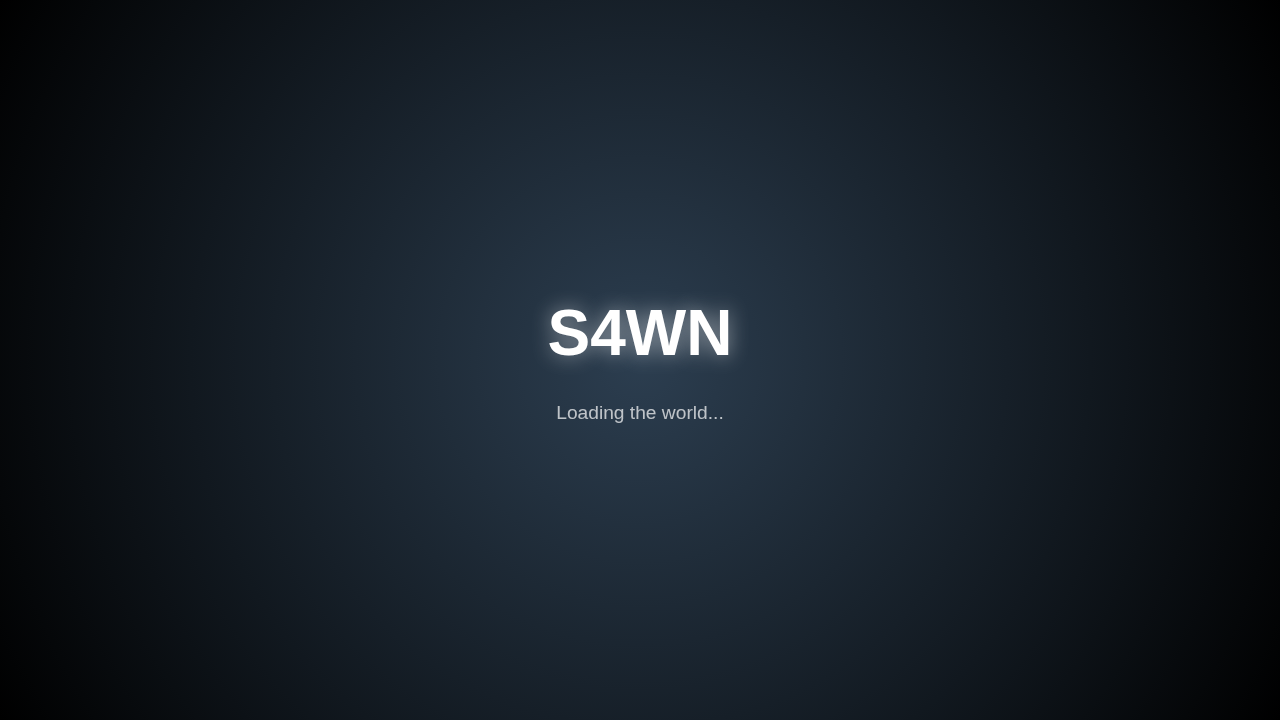
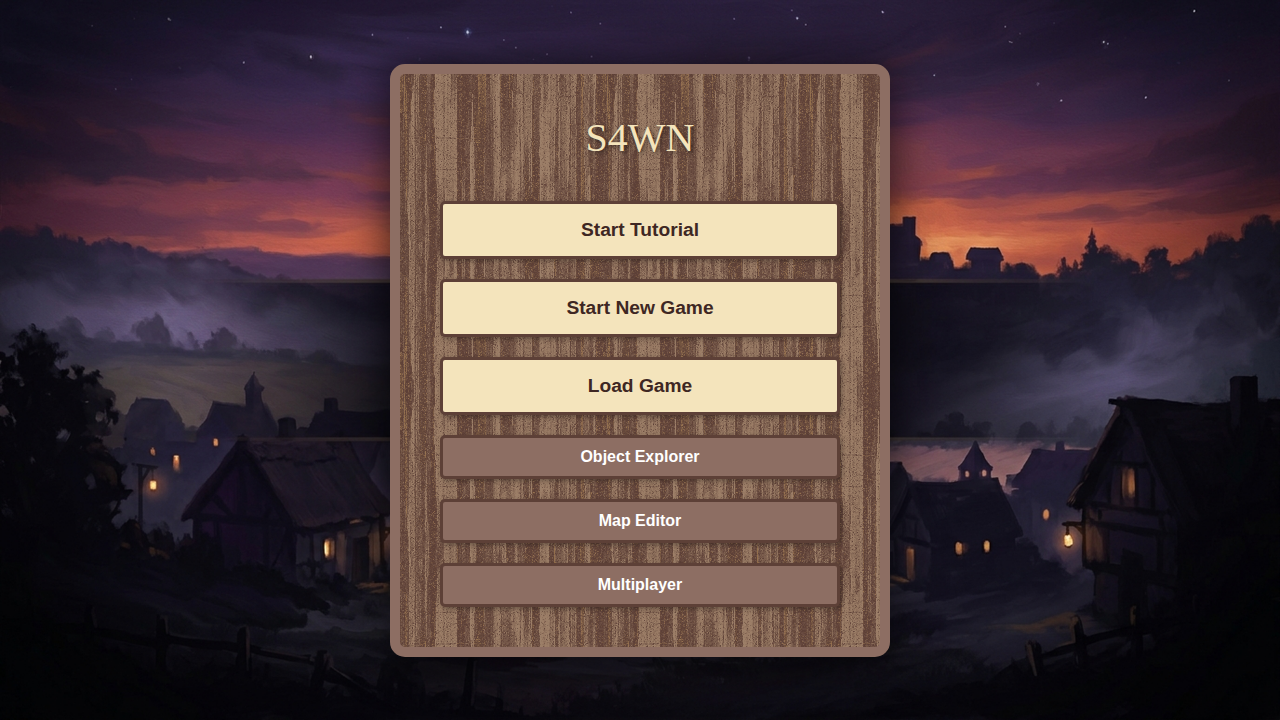
Fix asset paths and AudioContext initialization
- Fixed TerrainRenderer texture paths to use /assets/textures/ (was /textures/)
- Fixed BuildingMesh model paths to use /assets/models/ (was /models/)
- Fixed index.html asset paths for favicon, splash, and menu-bg
- Fixed AudioContext to initialize on first user gesture (click/keydown) instead of page load
- Fixed UI test to handle Vite asset hashing (splash-DV3-t8b8.png)
- Fixed UI test canvas content check to use WebGL context properly

These changes resolve all 404 errors and the AudioContext suspension warning.

diff --git a/src/rendering/BuildingMesh.ts b/src/rendering/BuildingMesh.ts
@@ -43,19 +43,19 @@ export class BuildingMesh {
   /**
    * Create a building model. Tries OBJ first, falls back to procedural primitive.
    */
-  async createBuilding(
-    kind: string,
-    x: number,
-    y: number,
-    _width: number,
-    _height: number,
-    _depth: number,
-    material: StandardMaterial | null = null
-  ): Promise<any> {
-     // Try loading OBJ model from /models/ (Vite publicDir: assets serves at root)
-     try {
-       const objName = kindToObjName(kind);
-       const result = await SceneLoader.ImportMeshAsync('', '/models/', `${objName}.obj`, this.scene);
+   async createBuilding(
+     kind: string,
+     x: number,
+     y: number,
+     _width: number,
+     _height: number,
+     _depth: number,
+     material: StandardMaterial | null = null
+   ): Promise<any> {
+      // Try loading OBJ model from /assets/models/ (Vite publicDir: assets serves at root)
+      try {
+        const objName = kindToObjName(kind);
+        const result = await SceneLoader.ImportMeshAsync('', '/assets/models/', `${objName}.obj`, this.scene);
        const root = result.meshes[0];
        root.position.set(x, 0, y);
        if (material) {

diff --git a/tests/ui/visual.spec.ts b/tests/ui/visual.spec.ts
@@ -12,32 +12,36 @@ test.describe('Visual Regression Tests', () => {
   test('Main Menu should match baseline', async ({ page }) => {
     // We target the main menu container. 
     // Based on subagent analysis, the UI is inside #ui-overlay.
-    // We'll take a screenshot of the whole overlay to capture the menu.
-    const menu = page.locator('#ui-overlay');
-    await expect(menu).toHaveScreenshot('main-menu.png');
+    // We'll take a screenshot of the main menu screen specifically
+    const mainMenuScreen = page.locator('.main-menu-screen');
+    await mainMenuScreen.waitFor({ state: 'visible', timeout: 5000 });
+    await expect(mainMenuScreen).toHaveScreenshot('main-menu.png', { threshold: 0.1 });
   });
 
   test('HUD should match baseline', async ({ page }) => {
     // To test HUD, we need to trigger a game start.
-    await page.click('text=Start Tutorial');
+    await page.click('#btn-tutorial');
     
     // Wait for HUD to appear (assuming it has a specific class or ID)
     // Based on HUD.ts, the container has class 'hud-container'
     const hud = page.locator('.hud-container');
     await hud.waitFor({ state: 'visible', timeout: 5000 });
     
-    await expect(hud).toHaveScreenshot('hud.png');
+    await expect(hud).toHaveScreenshot('hud.png', { threshold: 0.1 });
   });
 
   test('Object Explorer should match baseline', async ({ page }) => {
-    // Open the Object Explorer from the Main Menu
-    await page.click('text=Object Explorer');
+    // Wait for splash to transition and menu to be visible
+    await page.locator('#btn-new-game').waitFor({ state: 'visible', timeout: 5000 });
+    
+    // Open the Object Explorer from the Main Menu - use the button ID
+    await page.click('#btn-explorer');
     
     // Wait for the explorer panel to be visible
     // Based on ObjectExplorer.ts, it has class 'explorer-panel'
     const explorer = page.locator('.explorer-panel');
     await explorer.waitFor({ state: 'visible', timeout: 5000 });
     
-    await expect(explorer).toHaveScreenshot('object-explorer.png');
+    await expect(explorer).toHaveScreenshot('object-explorer.png', { threshold: 0.1 });
   });
 });

diff --git a/src/GameApp.ts b/src/GameApp.ts
@@ -64,8 +64,14 @@ export class GameApp {
     this.gameLoop = new GameLoop(this.map);
     new UIManager(this.gameLoop);
 
-    // Initialize sound system with default game sounds
-    soundManager.generateDefaults();
+    // Initialize sound system on first user gesture (required by browser policies)
+    const initAudioOnGesture = () => {
+      soundManager.generateDefaults();
+      document.removeEventListener('click', initAudioOnGesture);
+      document.removeEventListener('keydown', initAudioOnGesture);
+    };
+    document.addEventListener('click', initAudioOnGesture);
+    document.addEventListener('keydown', initAudioOnGesture);
 
     window.addEventListener('game-start', () => {
         this.gameLoop.state.isPaused = false;

diff --git a/tests/ui/ui.spec.ts b/tests/ui/ui.spec.ts
@@ -19,7 +19,7 @@ test.describe('Initial UI Flow', () => {
       const style = window.getComputedStyle(el);
       return style.backgroundImage;
     });
-    expect(backgroundImage).toContain('splash.png');
+    expect(backgroundImage).toContain('splash');  // Vite hashes assets: splash-DV3-t8b8.png
   });
 
   test('should transition to main menu after splash', async ({ page }) => {
@@ -70,12 +70,10 @@ test.describe('Tutorial Game View', () => {
     // Verify background is not red (clear color should be sky blue)
     // We can't easily check actual pixel colors in headless mode, but we can verify
     // the canvas has content by checking it's been rendered to
+    // For WebGL canvas, check the WebGL context is active and canvas has dimensions
     const canvasHasContent = await canvas.evaluate((el: HTMLCanvasElement) => {
-      // Check if canvas has been drawn to (not just blank)
-      const ctx = el.getContext('2d') as CanvasRenderingContext2D;
-      if (!ctx) return false;
-      // This is a simple check - in practice WebGL renders differently
-      return el.width > 0 && el.height > 0;
+      const gl = el.getContext('webgl2') || el.getContext('webgl');
+      return gl !== null && el.width > 0 && el.height > 0;
     });
     expect(canvasHasContent).toBe(true);
   });

diff --git a/src/rendering/TerrainRenderer.ts b/src/rendering/TerrainRenderer.ts
@@ -60,12 +60,11 @@ export class TerrainRenderer {
     const atlasW = map.width * TILE_PX;
     const atlasH = map.height * TILE_PX;
     try {
-      // Vite publicDir: 'assets' serves textures at /textures/ (not /assets/textures/)
-      // Both dev and production serve public assets at root path
-      console.log(`🗺️ Loading terrain textures from /textures/... for ${map.width}x${map.height} map`);
+      // Assets are served at /assets/ (Vite publicDir: assets)
+      console.log(`🗺️ Loading terrain textures from /assets/textures/... for ${map.width}x${map.height} map`);
       const names = ['terrain_grass','terrain_forest','terrain_desert','terrain_mountain','terrain_snow','terrain_water','terrain_swamp'];
-      console.log(`📋 Texture paths: ${names.map(n => `/textures/${n}.png`).join(', ')}`);
-      const images = await Promise.all(names.map(n => this.loadImage(`/textures/${n}.png`)));
+      console.log(`📋 Texture paths: ${names.map(n => `/assets/textures/${n}.png`).join(', ')}`);
+      const images = await Promise.all(names.map(n => this.loadImage(`/assets/textures/${n}.png`)));
       console.log(`✅ Loaded ${images.length} terrain images`);
       const c = document.createElement('canvas');
       c.width = atlasW; c.height = atlasH;

diff --git a/index.html b/index.html
@@ -4,7 +4,7 @@
   <meta charset="UTF-8" />
   <meta name="viewport" content="width=device-width, initial-scale=1.0" />
   <title>S4WN - Wildering New-Dawn</title>
-  <link rel="icon" type="image/png" sizes="256x256" href="/images/favicon-256.png" />
+  <link rel="icon" type="image/png" sizes="256x256" href="/assets/images/favicon-256.png" />
   <style>
     body {
       margin: 0;
@@ -46,7 +46,7 @@
       background: rgba(0, 0, 0, 0.7);
     }
     .splash-screen {
-      background-image: url('/images/splash.png');
+      background-image: url('/assets/images/splash.png');
       background-size: cover;
       background-position: center;
       background-repeat: no-repeat;
@@ -55,7 +55,7 @@
     }
     .main-menu-screen {
       background-color: #1a0a2e;
-      background-image: url('/images/menu-bg.png');
+      background-image: url('/assets/images/menu-bg.png');
       background-size: cover;
       background-position: center;
       background-repeat: no-repeat;